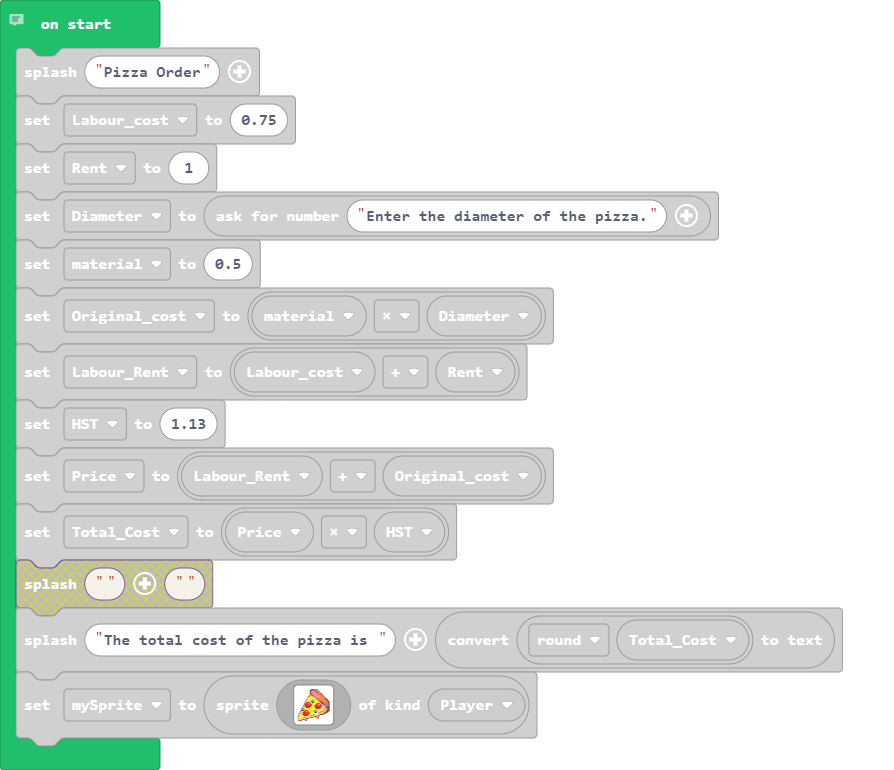
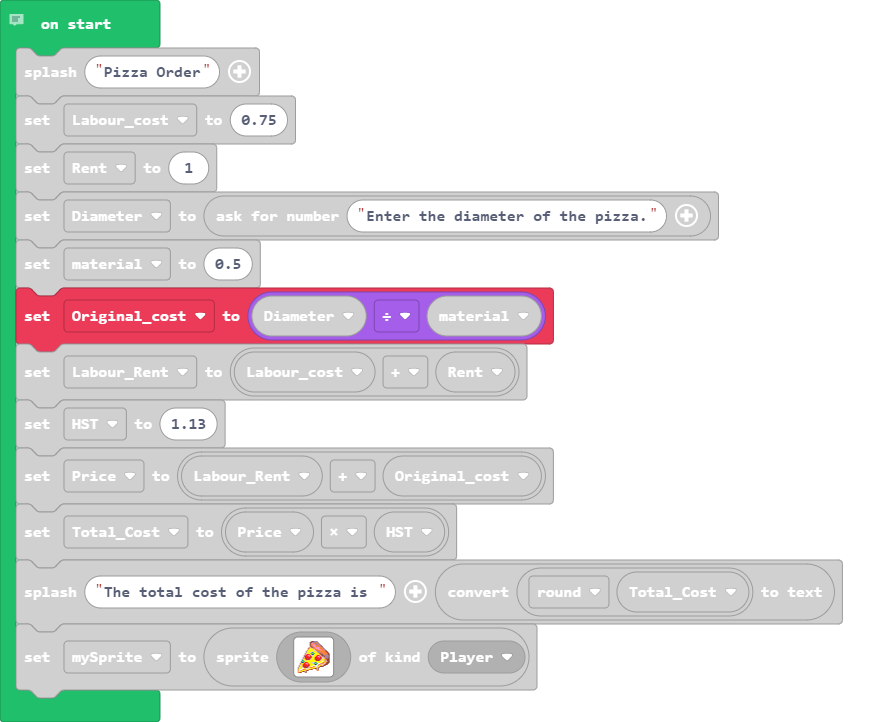
changed to divison

Changed region(s): [[0.0, 0.0305, 0.9664, 0.9751], [0.0, 0.3047, 0.0302, 0.3352]]

diff --git a/main.ts b/main.ts
@@ -6,7 +6,7 @@ let Labour_cost = 0.75
 let Rent = 1
 let Diameter = game.askForNumber("Enter the diameter of the pizza.")
 let material = 0.5
-let Original_cost = material * Diameter
+let Original_cost = Diameter / material
 let Labour_Rent = Labour_cost + Rent
 let HST = 1.13
 let Price = Labour_Rent + Original_cost
